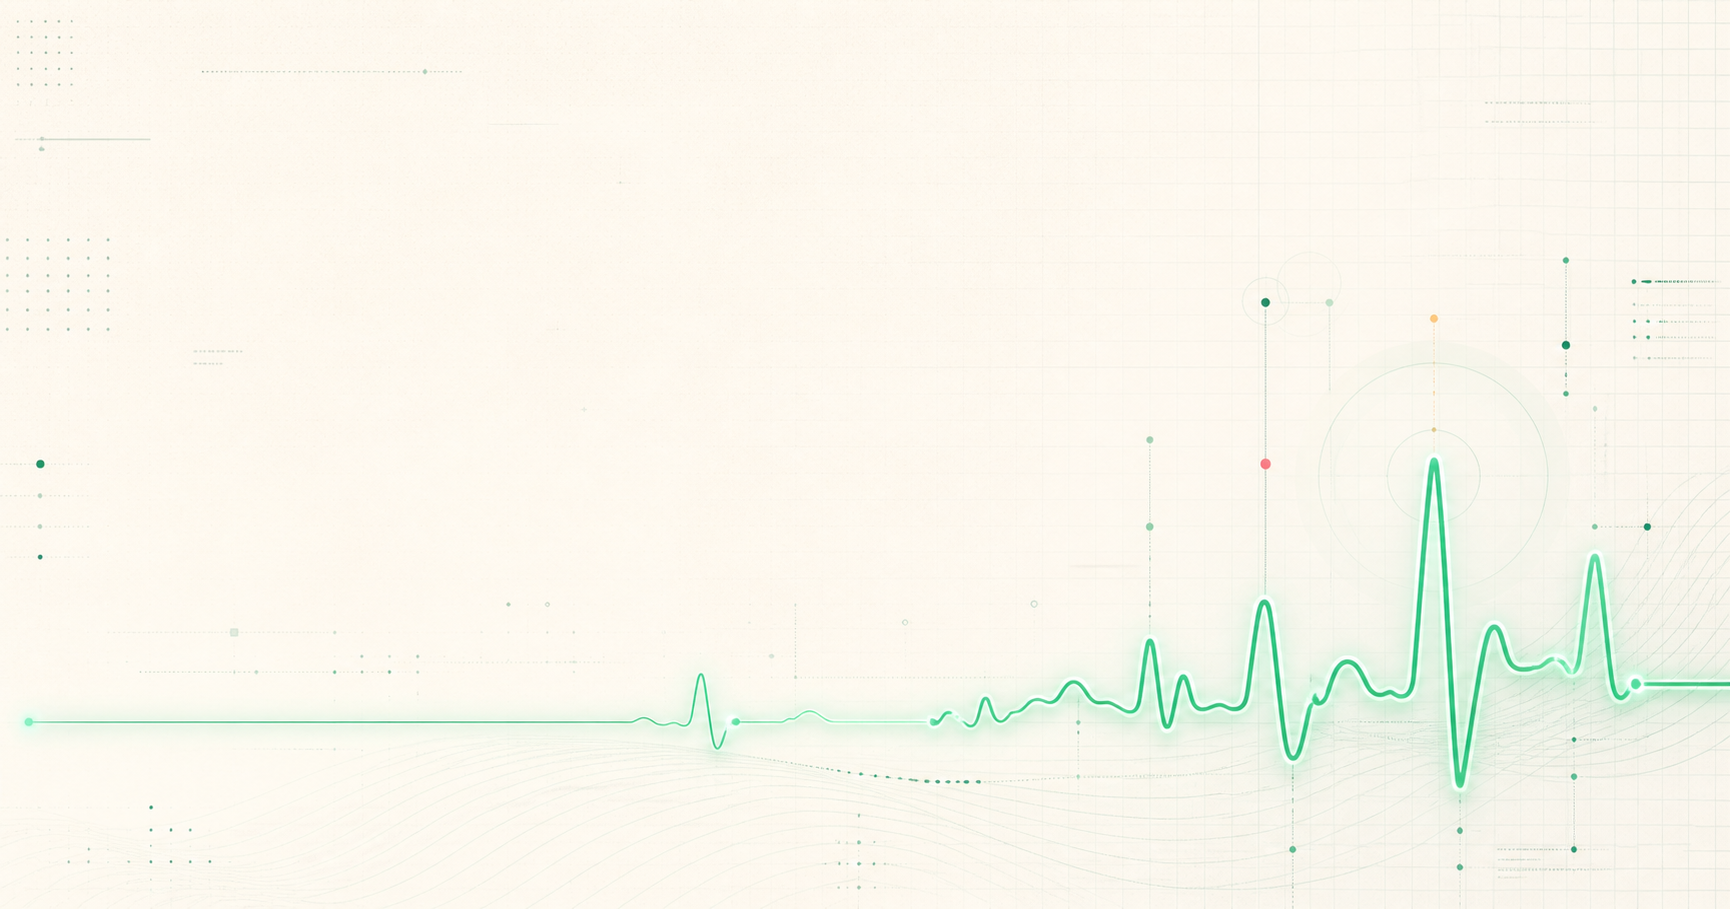
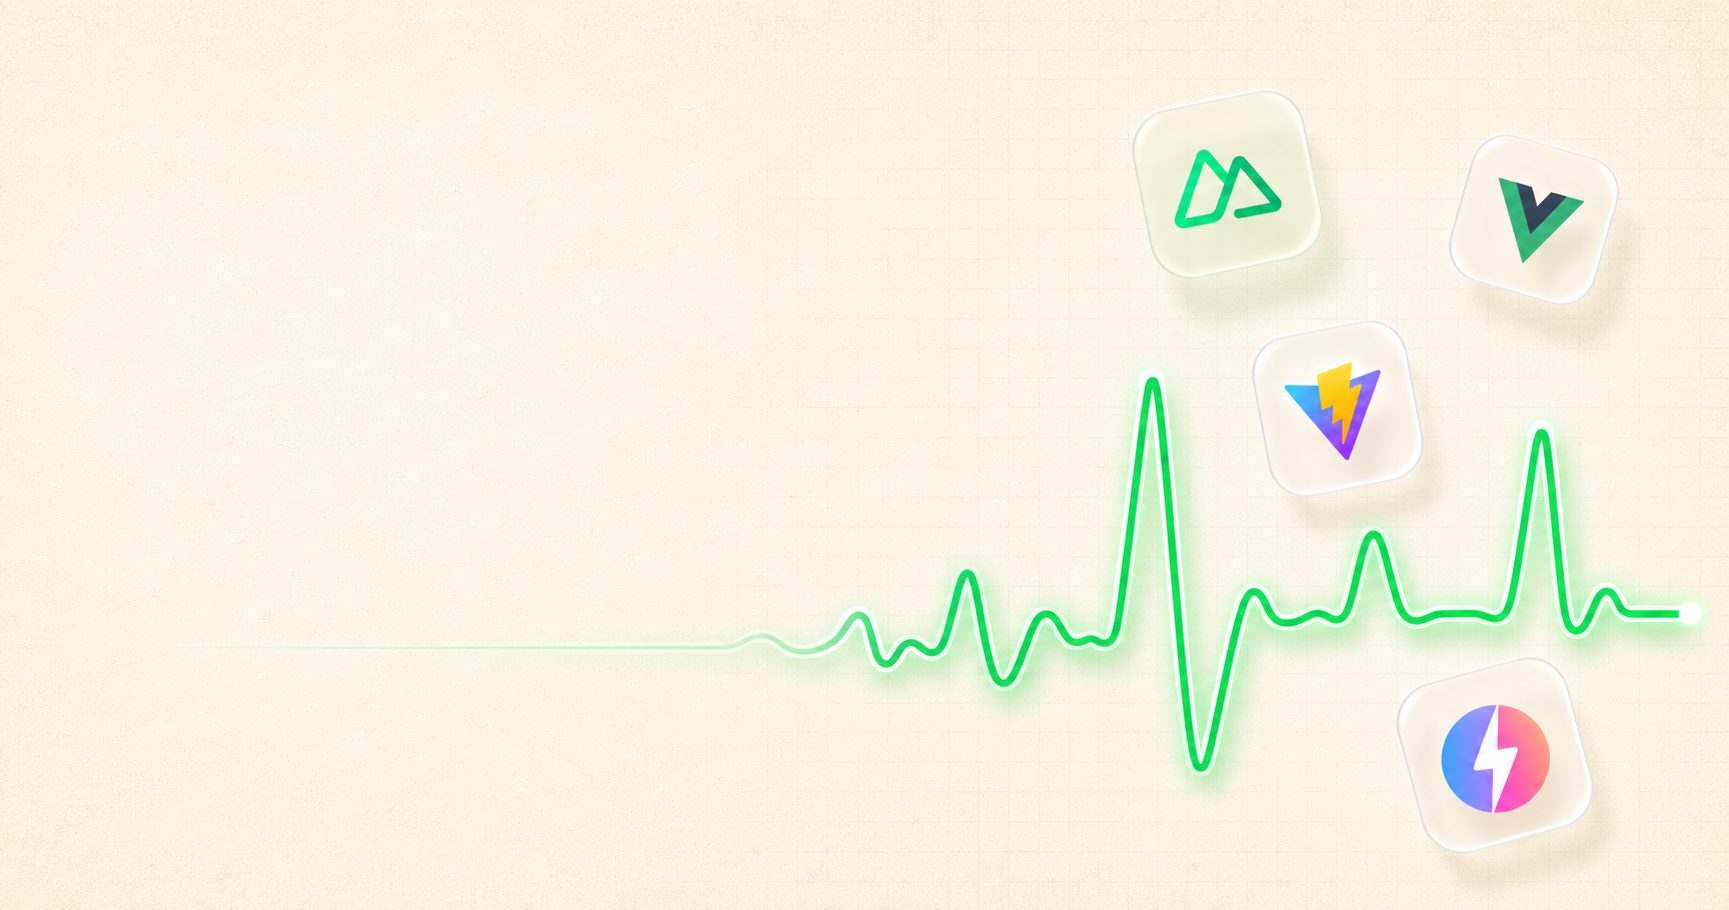
feat(docs): update doctor branding assets

diff --git a/docs/app/components/OgImage/DoctorHome.vue b/docs/app/components/OgImage/DoctorHome.vue
@@ -37,59 +37,42 @@ const props = withDefaults(
       alt=""
       style="position: absolute; inset: 0; width: 1200px; height: 630px; object-fit: cover"
     />
-    <div style="position: absolute; inset: 0; background: #fbfaf7; opacity: 0.32" />
-    <div
+    <img
+      src="/og/doctor-icon.png"
+      alt=""
       style="
         position: absolute;
-        top: 0;
-        left: 0;
-        width: 780px;
-        height: 630px;
-        background: #fbfaf7;
-        opacity: 0.94;
+        top: 58px;
+        left: 72px;
+        width: 76px;
+        height: 76px;
+        border-radius: 17px;
       "
     />
     <div
       style="
-        position: relative;
+        position: absolute;
+        top: 178px;
+        left: 72px;
         display: flex;
         flex-direction: column;
-        justify-content: center;
-        width: 720px;
-        padding: 72px;
+        align-items: flex-start;
+        width: 1020px;
       "
     >
-      <div style="display: flex; align-items: center; gap: 14px; margin-bottom: 34px">
-        <div
-          style="
-            display: flex;
-            align-items: center;
-            justify-content: center;
-            width: 46px;
-            height: 46px;
-            border-radius: 12px;
-            background: #059669;
-            color: white;
-            font-size: 26px;
-            font-weight: 700;
-          "
-        >
-          +
-        </div>
-        <div style="font-size: 26px; font-weight: 650">Doctor</div>
-      </div>
-      <h1
+      <div
         style="
           margin: 0;
-          max-width: 650px;
-          font-size: 72px;
+          width: 980px;
+          font-size: 42px;
           font-weight: 650;
-          line-height: 0.95;
+          line-height: 1;
           color: #171717;
+          white-space: nowrap;
         "
       >
-        {{ props.title }}
-      </h1>
+        Catch the AI slop your agents ship.
+      </div>
       <p
         style="
           margin: 28px 0 0;
@@ -101,20 +84,6 @@ const props = withDefaults(
       >
         {{ props.description }}
       </p>
-      <div style="display: flex; gap: 18px; margin-top: 42px; color: #52525b; font-size: 20px">
-        <span style="display: flex; align-items: center; gap: 7px">
-          <span style="width: 12px; height: 12px; border-radius: 999px; background: #10b981" />
-          Nuxt
-        </span>
-        <span style="display: flex; align-items: center; gap: 7px">
-          <span style="width: 12px; height: 12px; border-radius: 999px; background: #42b883" />
-          Vue
-        </span>
-        <span style="display: flex; align-items: center; gap: 7px">
-          <span style="width: 12px; height: 12px; border-radius: 999px; background: #f59e0b" />
-          Vite
-        </span>
-      </div>
     </div>
   </div>
 </template>

diff --git a/docs/app/components/RuleExplorer.vue b/docs/app/components/RuleExplorer.vue
@@ -182,12 +182,12 @@ const activeFrameworkLinkClass = computed(
             class="inline-flex items-center gap-2 rounded-md text-neutral-800 hover:text-neutral-950 dark:text-neutral-100 dark:hover:text-white focus-visible:outline-2 focus-visible:outline-offset-2 focus-visible:outline-primary-500"
             aria-label="Doctor home"
           >
-            <span
-              class="inline-flex size-7 items-center justify-center self-center rounded-md bg-primary-600 text-white ring-1 ring-primary-700/20 dark:bg-primary-500"
+            <img
+              src="/doctor-icon.png"
+              alt=""
+              class="size-7 self-center rounded-md"
               aria-hidden="true"
-            >
-              <UIcon name="i-lucide-stethoscope" class="size-4" />
-            </span>
+            />
             <component :is="headingTag" class="text-3xl font-light tracking-tight text-inherit">
               {{ title }}
               <span

diff --git a/docs/app/pages/index.vue b/docs/app/pages/index.vue
@@ -97,12 +97,7 @@ function toggleTheme() {
         aria-label="Homepage"
         class="inline-flex items-center gap-2.5 rounded-md focus-visible:outline-2 focus-visible:outline-offset-4 focus-visible:outline-emerald-500"
       >
-        <span
-          class="inline-flex size-7 items-center justify-center rounded-md bg-emerald-600 text-white dark:bg-emerald-500"
-          aria-hidden="true"
-        >
-          <UIcon name="i-lucide-stethoscope" class="size-4" />
-        </span>
+        <img src="/doctor-icon.png" alt="" class="size-7 rounded-md" aria-hidden="true" />
         <span class="text-base font-semibold tracking-tight">Doctor</span>
       </a>
 

diff --git a/docs/nuxt.config.ts b/docs/nuxt.config.ts
@@ -41,7 +41,10 @@ export default defineNuxtConfig({
 
   app: {
     head: {
-      link: [{ rel: "icon", type: "image/svg+xml", href: "/favicon.svg" }],
+      link: [
+        { rel: "icon", type: "image/png", href: "/favicon.png" },
+        { rel: "apple-touch-icon", href: "/doctor-icon.png" },
+      ],
     },
   },
 

diff --git a/docs/app/app.config.ts b/docs/app/app.config.ts
@@ -4,8 +4,8 @@ export default defineAppConfig({
   header: {
     title: "Nuxt Doctor",
     logo: {
-      light: "/nuxt-doctor-logo.svg",
-      dark: "/nuxt-doctor-logo.svg",
+      light: "/doctor-icon.png",
+      dark: "/doctor-icon.png",
       alt: "Nuxt Doctor",
     },
   },

diff --git a/docs/content/index.md b/docs/content/index.md
@@ -10,11 +10,8 @@ seo:
 ::u-page-hero
 #headline
 ::div{class="hero-eyebrow"}
-:img{src="/vue-doctor-logo.svg" alt="Vue Doctor" class="hero-logo"}
-Vue 3.5
-:span{class="dot"}
-:img{src="/nuxt-doctor-logo.svg" alt="Nuxt Doctor" class="hero-logo"}
-Nuxt 4
+:img{src="/doctor-icon.png" alt="Doctor" class="hero-logo"}
+Vite, Vue, Nuxt, and Nitro
 ::
 
 #title

diff --git a/README.md b/README.md
@@ -1,5 +1,9 @@
 # Catch the AI slop your agents ship.
 
+<p>
+  <img src="docs/public/doctor-icon.png" alt="Doctor" width="96" height="96">
+</p>
+
 Doctor scans Vite, Vue, Nuxt, and Nitro projects before review and flags framework bugs agents often miss.
 
 Docs: [vite-doctor.onmax.me](https://vite-doctor.onmax.me)
